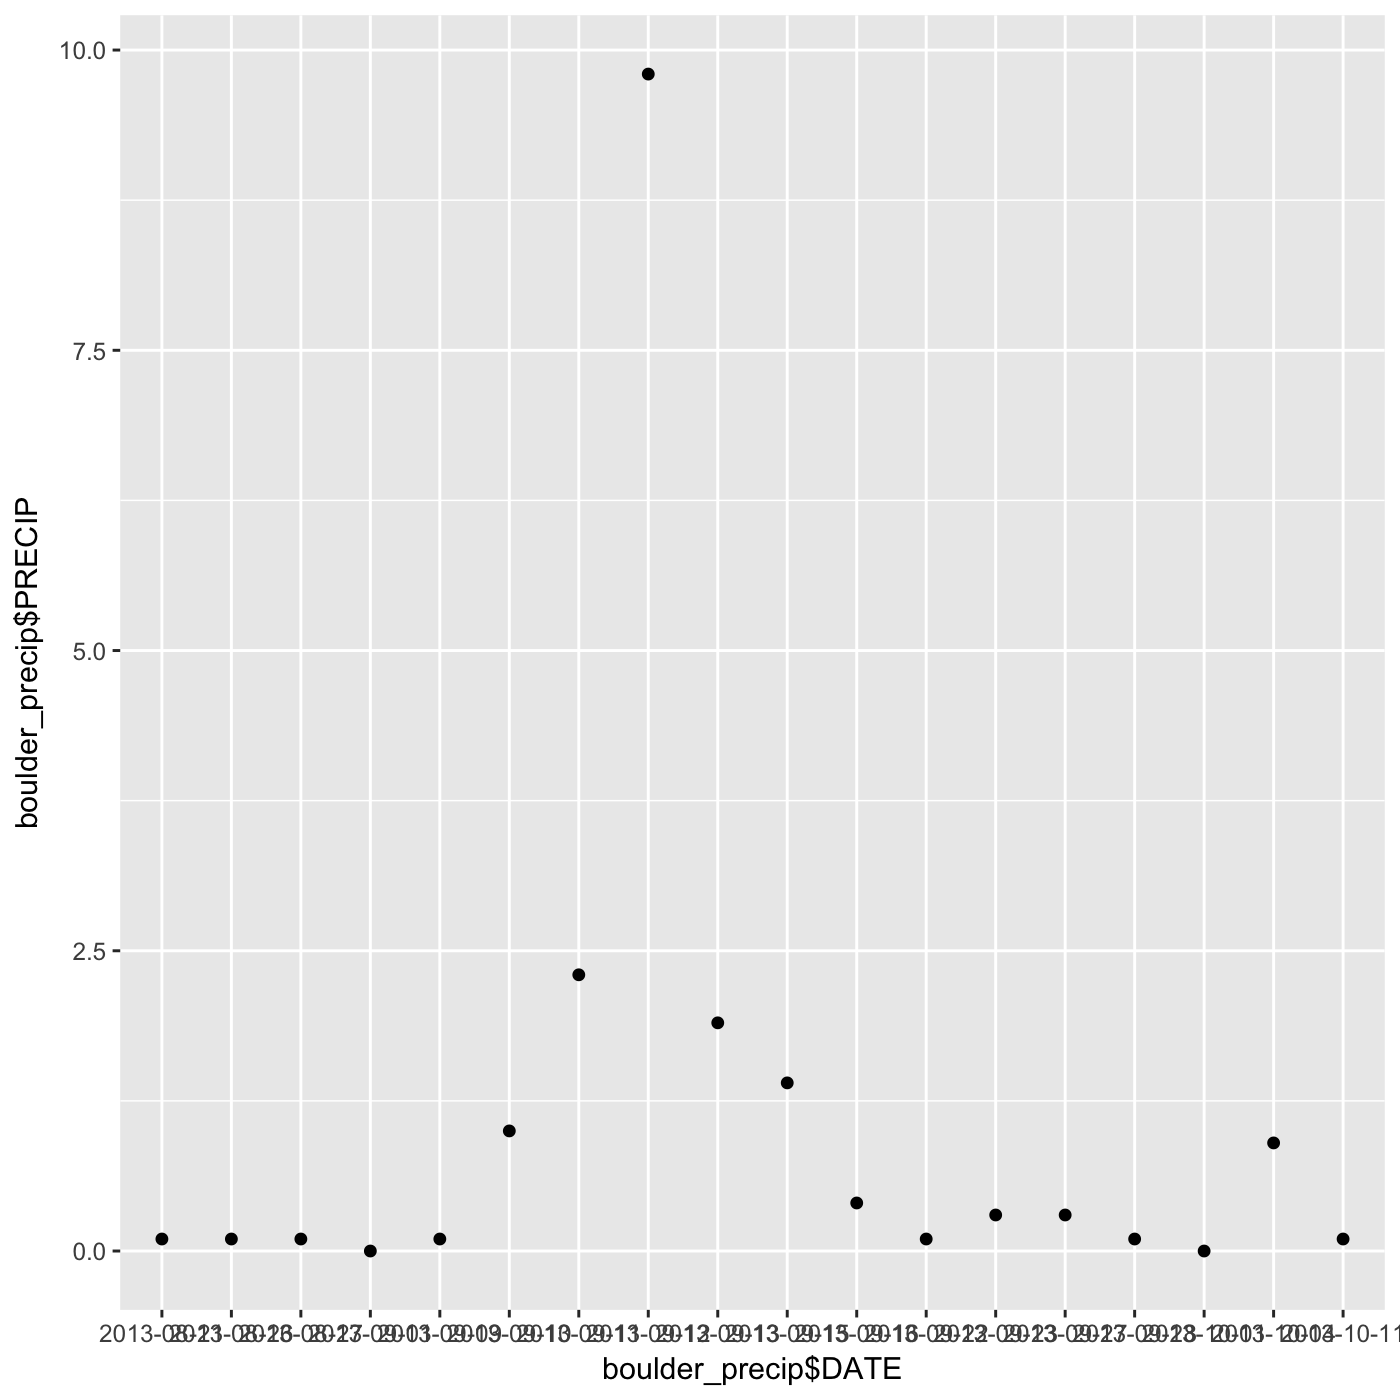
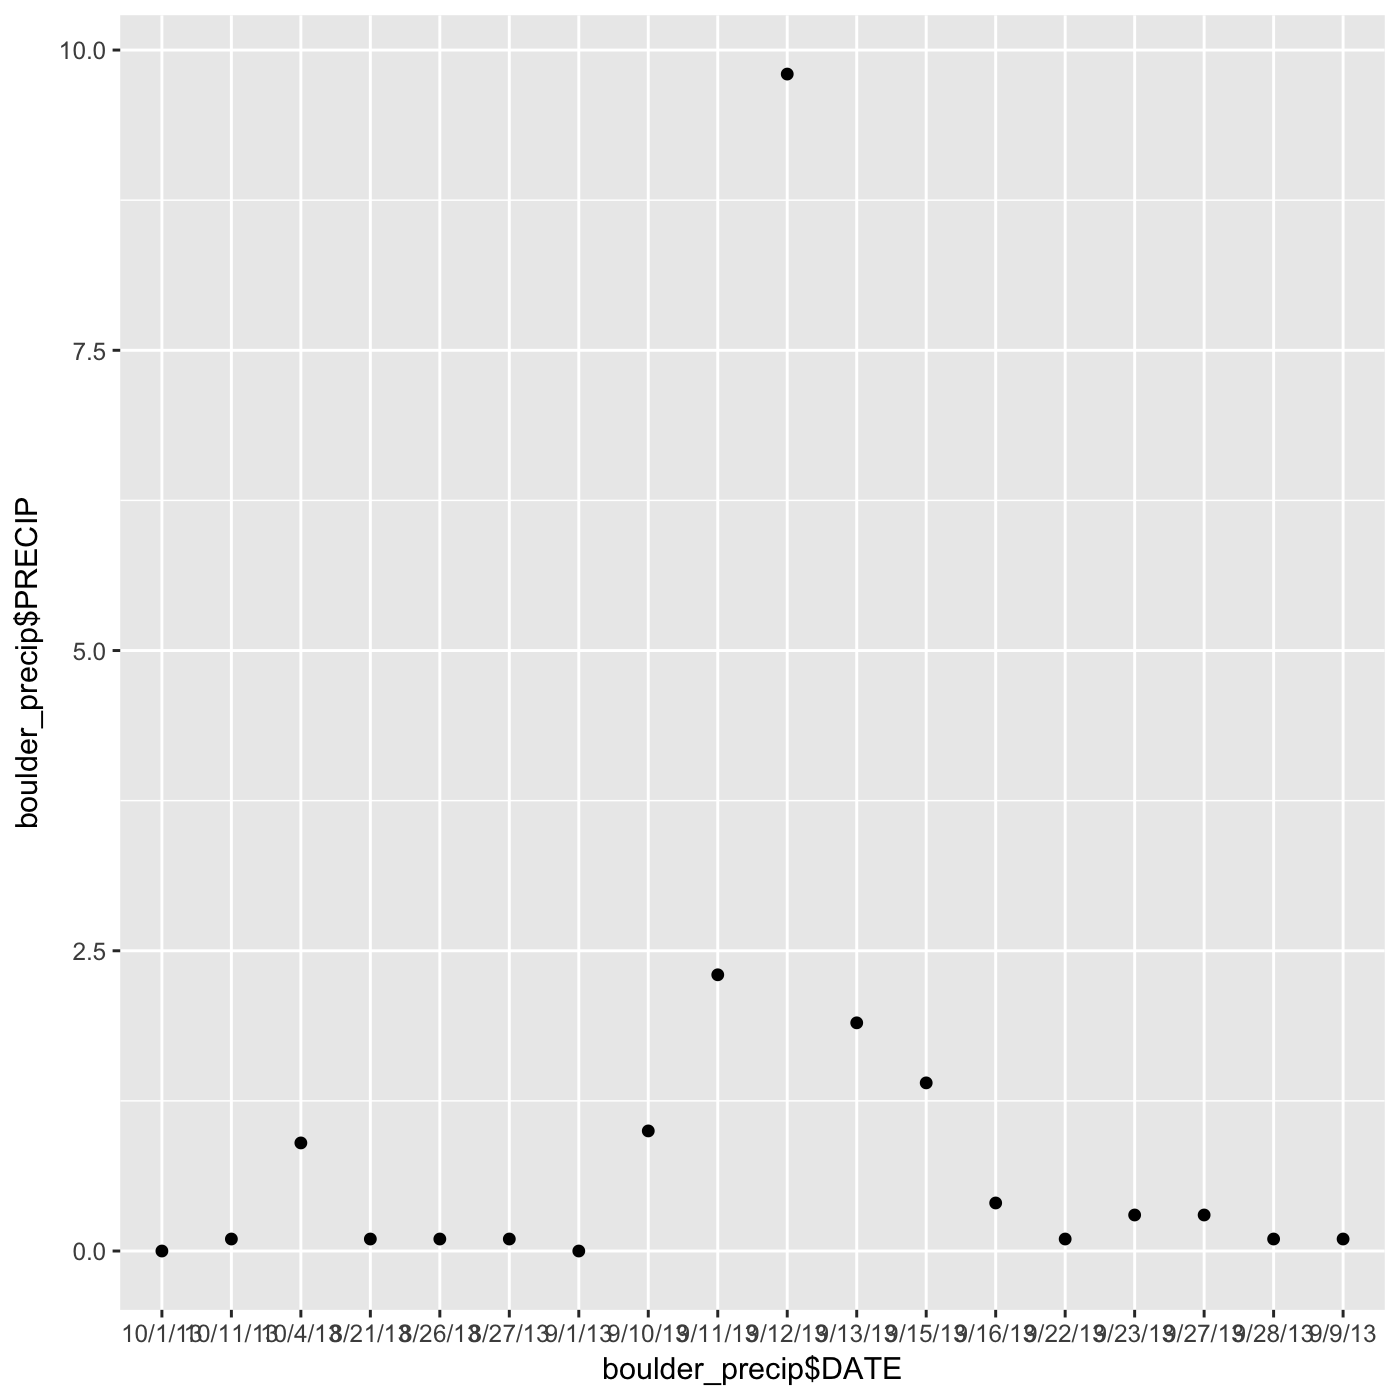
url changes

Changed region(s): [[0.0921, 0.9214, 0.9829, 0.9829], [0.7064, 0.86, 0.7679, 0.8907], [0.7986, 0.86, 0.8293, 0.8907]]

diff --git a/_posts/courses/earth-analytics/02-time-series-data/get-to-know-r/2017-01-25-R04-spreadsheet-data-r.md b/_posts/courses/earth-analytics/02-time-series-data/get-to-know-r/2017-01-25-R04-spreadsheet-data-r.md
@@ -58,9 +58,9 @@ library(ggplot2)
 options(stringsAsFactors = FALSE)
 
 # download data from figshare
-# note that we are downloaded the data into your
-download.file(url = "https://ndownloader.figshare.com/files/7010681",
-              destfile = "data/boulder-precip.csv")
+download.file("https://ndownloader.figshare.com/files/9282364",
+              "data/boulder-precip.csv",
+              method = "libcurl")
 ```
 
 Let's break the code above down. First, we use the `download.file` function to
@@ -85,20 +85,21 @@ boulder_precip <- read.csv(file="data/boulder-precip.csv")
 
 # view first few rows of the data
 head(boulder_precip)
-##     X       DATE PRECIP
-## 1 756 2013-08-21    0.1
-## 2 757 2013-08-26    0.1
-## 3 758 2013-08-27    0.1
-## 4 759 2013-09-01    0.0
-## 5 760 2013-09-09    0.1
-## 6 761 2013-09-10    1.0
+##    ID    DATE PRECIP TEMP
+## 1 756 8/21/13    0.1   55
+## 2 757 8/26/13    0.1   25
+## 3 758 8/27/13    0.1   NA
+## 4 759  9/1/13    0.0 -999
+## 5 760  9/9/13    0.1   15
+## 6 761 9/10/13    1.0   25
 
 # view the format of the boulder_precip object in R
 str(boulder_precip)
-## 'data.frame':	18 obs. of  3 variables:
-##  $ X     : int  756 757 758 759 760 761 762 763 764 765 ...
-##  $ DATE  : chr  "2013-08-21" "2013-08-26" "2013-08-27" "2013-09-01" ...
+## 'data.frame':	18 obs. of  4 variables:
+##  $ ID    : int  756 757 758 759 760 761 762 763 764 765 ...
+##  $ DATE  : chr  "8/21/13" "8/26/13" "8/27/13" "9/1/13" ...
 ##  $ PRECIP: num  0.1 0.1 0.1 0 0.1 1 2.3 9.8 1.9 1.4 ...
+##  $ TEMP  : int  55 25 NA -999 15 25 65 NA 95 -999 ...
 ```
 <div class="notice--warning" markdown="1">
 
@@ -140,10 +141,9 @@ followed by the name of the column (or the column header):
 # when we download the data we create a data.frame
 # view each column of the data frame using its name (or header)
 boulder_precip$DATE
-##  [1] "2013-08-21" "2013-08-26" "2013-08-27" "2013-09-01" "2013-09-09"
-##  [6] "2013-09-10" "2013-09-11" "2013-09-12" "2013-09-13" "2013-09-15"
-## [11] "2013-09-16" "2013-09-22" "2013-09-23" "2013-09-27" "2013-09-28"
-## [16] "2013-10-01" "2013-10-04" "2013-10-11"
+##  [1] "8/21/13"  "8/26/13"  "8/27/13"  "9/1/13"   "9/9/13"   "9/10/13" 
+##  [7] "9/11/13"  "9/12/13"  "9/13/13"  "9/15/13"  "9/16/13"  "9/22/13" 
+## [13] "9/23/13"  "9/27/13"  "9/28/13"  "10/1/13"  "10/4/13"  "10/11/13"
 
 # view the precip column
 boulder_precip$PRECIP

diff --git a/_posts/courses/earth-analytics/02-time-series-data/time-series-dates-r/2017-01-25-R01-work-with-dates-in-R.md b/_posts/courses/earth-analytics/02-time-series-data/time-series-dates-r/2017-01-25-R01-work-with-dates-in-R.md
@@ -78,13 +78,13 @@ boulder_precip <- read.csv(file="data/boulder-precip.csv")
 
 # view first few rows of the data
 head(boulder_precip)
-##     X       DATE PRECIP
-## 1 756 2013-08-21    0.1
-## 2 757 2013-08-26    0.1
-## 3 758 2013-08-27    0.1
-## 4 759 2013-09-01    0.0
-## 5 760 2013-09-09    0.1
-## 6 761 2013-09-10    1.0
+##    ID    DATE PRECIP TEMP
+## 1 756 8/21/13    0.1   55
+## 2 757 8/26/13    0.1   25
+## 3 758 8/27/13    0.1   NA
+## 4 759  9/1/13    0.0 -999
+## 5 760  9/9/13    0.1   15
+## 6 761 9/10/13    1.0   25
 ```
 
 Next, plot the data using `ggplot()`.
@@ -113,10 +113,11 @@ so many labels on the x axis.
 
 ```r
 str(boulder_precip)
-## 'data.frame':	18 obs. of  3 variables:
-##  $ X     : int  756 757 758 759 760 761 762 763 764 765 ...
-##  $ DATE  : chr  "2013-08-21" "2013-08-26" "2013-08-27" "2013-09-01" ...
+## 'data.frame':	18 obs. of  4 variables:
+##  $ ID    : int  756 757 758 759 760 761 762 763 764 765 ...
+##  $ DATE  : chr  "8/21/13" "8/26/13" "8/27/13" "9/1/13" ...
 ##  $ PRECIP: num  0.1 0.1 0.1 0 0.1 1 2.3 9.8 1.9 1.4 ...
+##  $ TEMP  : int  55 25 NA -999 15 25 65 NA 95 -999 ...
 ```
 
 
@@ -212,8 +213,7 @@ class(boulder_precip$DATE)
 
 # view results
 head(boulder_precip$DATE)
-## [1] "2013-08-21" "2013-08-26" "2013-08-27" "2013-09-01" "2013-09-09"
-## [6] "2013-09-10"
+## [1] NA NA NA NA NA NA
 ```
 
 Now that we have adjusted the date, let's plot again. Notice that it plots
@@ -230,6 +230,11 @@ ggplot(data = boulder_precip, aes(x = DATE, y = PRECIP)) +
       labs(title = "Total daily precipitation in Boulder, Colorado",
            subtitle = "Fall 2013",
            x = "Date", y = "Daily Precipitation (Inches)")
+## Warning in min(x): no non-missing arguments to min; returning Inf
+## Warning in max(x): no non-missing arguments to max; returning -Inf
+## Warning in min(diff(sort(x))): no non-missing arguments to min; returning
+## Inf
+## Warning: Removed 18 rows containing missing values (position_stack).
 ```
 
 <img src="{{ site.url }}/images/rfigs/courses/earth-analytics/02-time-series-data/time-series-dates-r/2017-01-25-R01-work-with-dates-in-R/qplot-data-1.png" title="precip bar plot" alt="precip bar plot" width="90%" />
